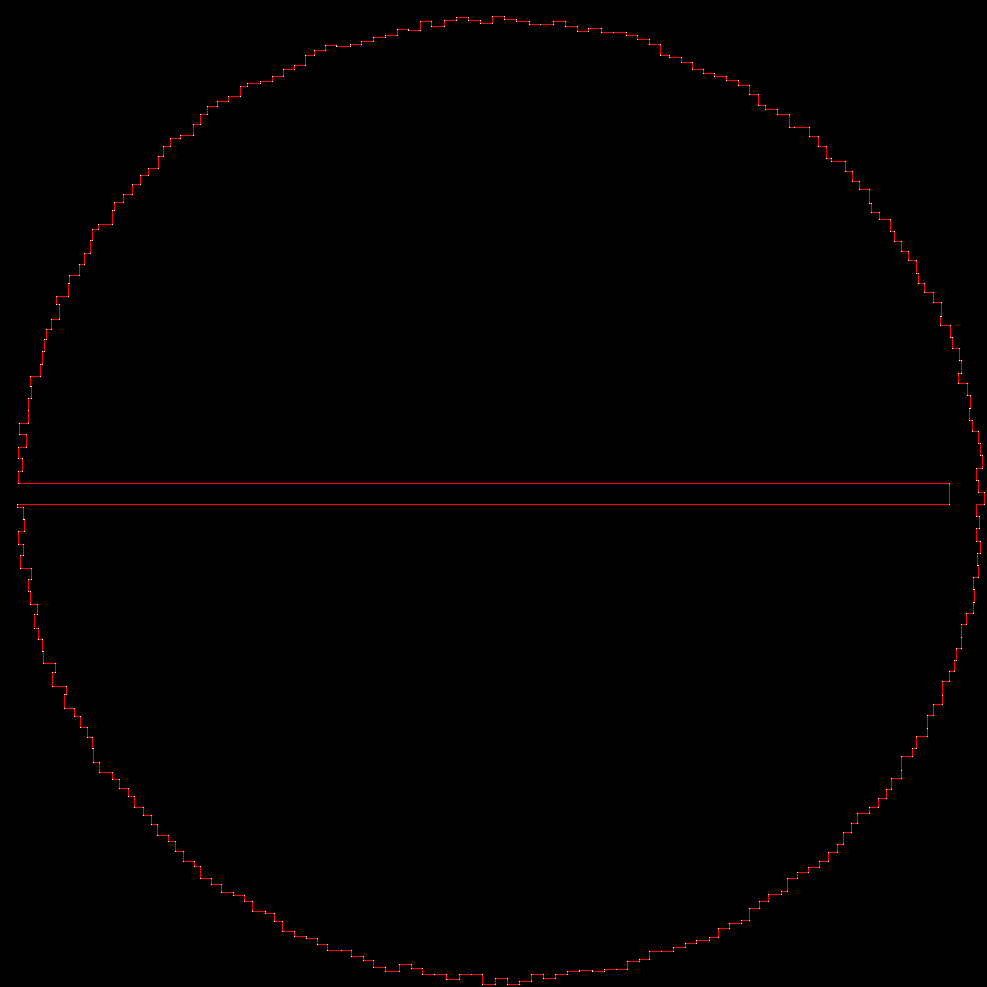
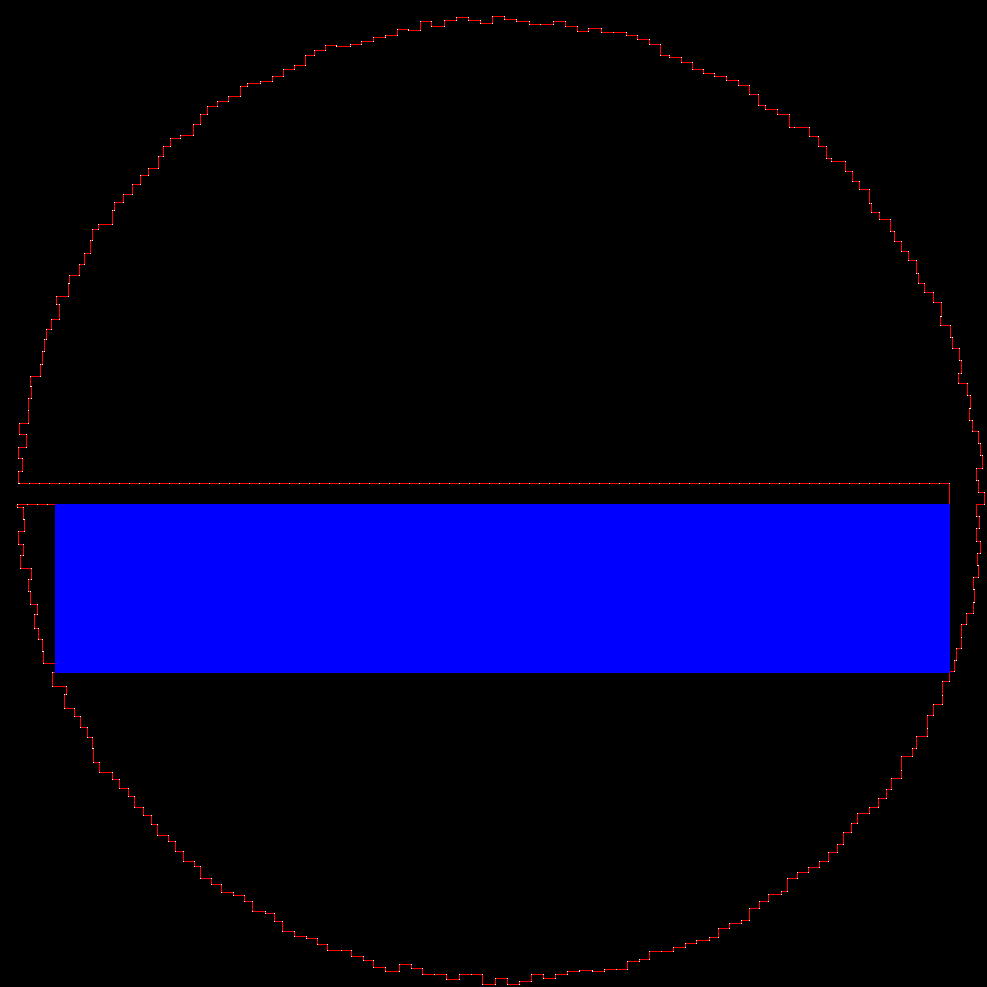
UNBELIEVABLE

Changed region(s): [[0.0304, 0.4863, 0.9726, 0.6991]]

diff --git a/src/aoc2025/day9.rs b/src/aoc2025/day9.rs
@@ -20,7 +20,13 @@ impl Day for Day9 {
         let pairwise_vec = (0..points.len())
             .map(|i| {
                 (i + 1..points.len())
-                    .map(|j| build_pairwise(&points, i, j))
+                    .filter_map(|j| {
+                        if !points[i].added && !points[j].added {
+                            Some(build_pairwise(&points, i, j))
+                        } else {
+                            None
+                        }
+                    })
                     .collect_vec()
             })
             .concat();
@@ -31,12 +37,12 @@ impl Day for Day9 {
                 i != pw.i1 && i != pw.i2 && p.between(&points[pw.i1], &points[pw.i2])
             });
             if !concave {
-                println!("q2: {}", pw.area);
+                println!("q2: {}", pw.area); // 4549093344 too high 1381772324 too low
                 println!(
                     "{},{} {},{}",
                     points[pw.i1].x, points[pw.i1].y, points[pw.i2].x, points[pw.i2].y
                 );
-                paint(&points);
+                paint(&points, &points[pw.i1], &points[pw.i2]);
                 break;
             }
         }
@@ -58,6 +64,7 @@ impl Day for Day9 {
 struct Point2D {
     x: u32,
     y: u32,
+    added: bool,
 }
 
 impl Point2D {
@@ -76,12 +83,14 @@ impl FromStr for Point2D {
     type Err = String;
 
     fn from_str(s: &str) -> Result<Self, Self::Err> {
+        let added = s.chars().nth(0).unwrap() == '!';
+        let s = if added { &s[1..] } else { s };
         let (x, y) = s
             .split(",")
             .map(|s| s.parse::<u32>().unwrap())
             .collect_tuple()
             .ok_or(format!("bad 2d point: {}", s))?;
-        Ok(Point2D { x, y })
+        Ok(Point2D { x, y, added })
     }
 }
 fn area(p1: &Point2D, p2: &Point2D) -> u128 {
@@ -119,7 +128,7 @@ impl Ord for Pairwise {
     }
 }
 
-fn paint(points: &Vec<Point2D>) {
+fn paint(points: &Vec<Point2D>, p1: &Point2D, p2: &Point2D) {
     let width = points.iter().map(|p| p.x).max().unwrap() + 300;
     let height = points.iter().map(|p| p.y).max().unwrap() + 300;
     let mut image_buf =
@@ -143,6 +152,16 @@ fn paint(points: &Vec<Point2D>) {
         }
         let point = image_buf.get_pixel_mut(points[i].x / 100, points[i].y / 100);
         *point = image::Rgb([255u8, 255u8, 255u8]);
+    }
+    let smalx = p1.x.min(p2.x) / 100;
+    let smaly = p1.y.min(p2.y) / 100;
+    let bigx = p1.x.max(p2.x) / 100;
+    let bigy = p1.y.max(p2.y) / 100;
+    for x in smalx..bigx + 1 {
+        for y in smaly..bigy + 1 {
+            let point = image_buf.get_pixel_mut(x, y);
+            *point = image::Rgb([0u8, 0u8, 255u8]);
+        }
     }
     image_buf.save("202509.png").unwrap();
 }
